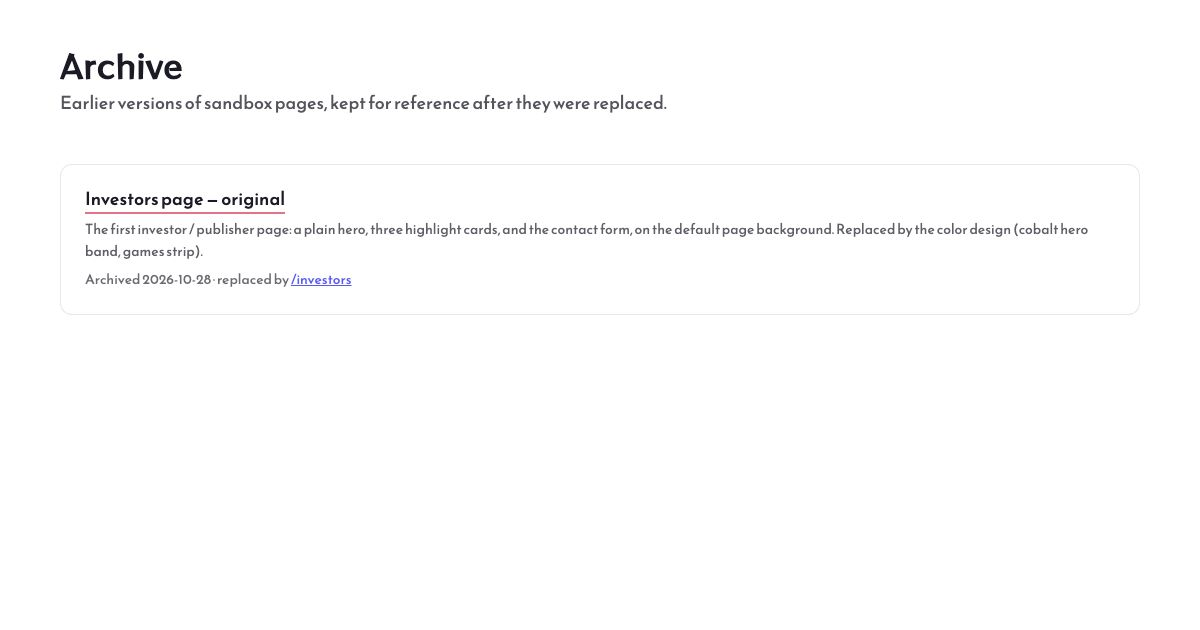
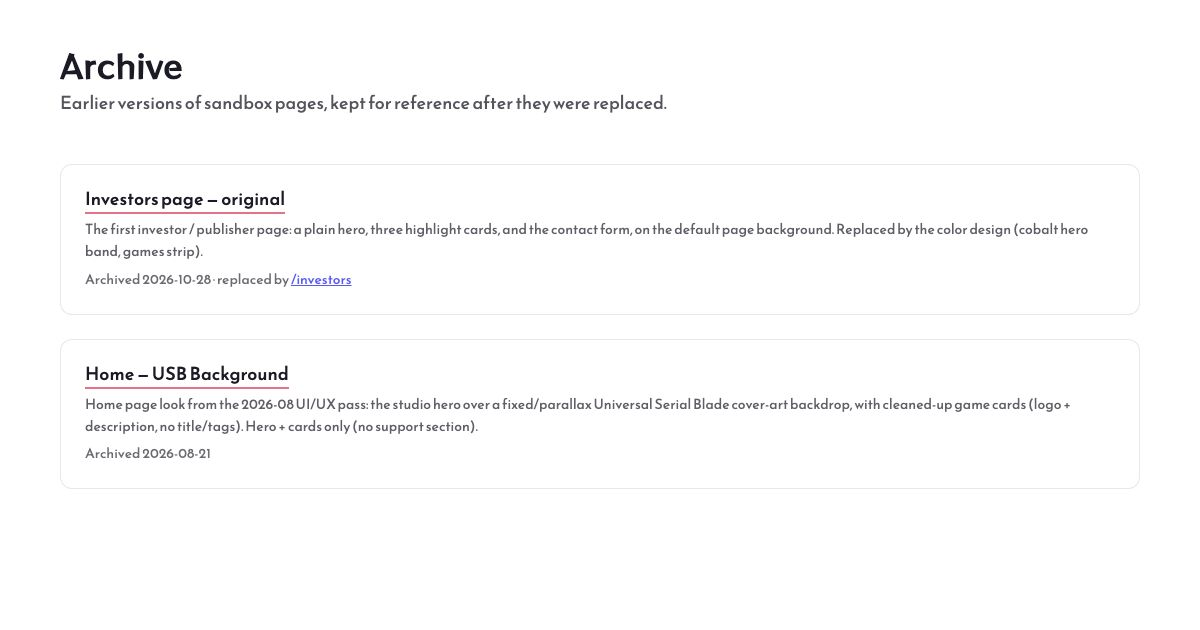
archive: move Home — USB Background to /archive/home-usb-background
It was already an archived snapshot listed under Pages; it now lives in
the archive with the notice bar. The old /home-usb-background address
redirects to the new one.

Changed region(s): [[0.0617, 0.573, 0.8942, 0.7238]]

diff --git a/src/pages/ArchiveHomeUsbBackgroundPage.jsx b/src/pages/ArchiveHomeUsbBackgroundPage.jsx
@@ -1,8 +1,10 @@
 import { asset } from '../utils/asset'
+import ArchiveNotice from '../components/ArchiveNotice'
+import { archived } from '../data/archive'
 import '../styles/home-usb-background.css'
 
 /**
- * Home — USB Background (archived snapshot).
+ * Home — USB Background (archived snapshot, /archive/home-usb-background).
  *
  * Frozen copy of the home-page look from the 2026-08 UI/UX pass: the studio
  * hero over a fixed/parallax Universal Serial Blade cover-art backdrop, plus
@@ -16,6 +18,8 @@ import '../styles/home-usb-background.css'
  * card-logo deltas live in ../styles/home-usb-background.css. Cards are static
  * previews — the "Learn More" pill doesn't navigate (no game routes here).
  */
+
+const ENTRY = archived.find((entry) => entry.path === '/archive/home-usb-background')
 
 const SCRIM = 'rgba(255, 255, 255, 0.62)'
 const BACKGROUND = '/assets/img/universal-serial-blade-outside-city-concept.jpg'
@@ -50,55 +54,58 @@ const games = [
   },
 ]
 
-export default function HomeUsbBackgroundPage() {
+export default function ArchiveHomeUsbBackgroundPage() {
   const backgroundImage = `linear-gradient(${SCRIM}, ${SCRIM}), url('${asset(BACKGROUND)}')`
 
   return (
-    <section className="home-main has-fixed-bg" style={{ backgroundImage }}>
+    <>
+      <ArchiveNotice entry={ENTRY} />
+      <section className="home-main has-fixed-bg" style={{ backgroundImage }}>
 
-      <section className="home-hero-intro">
-        <div className="hero-logo-wrapper">
-          <img src={asset('/assets/img/anime-type.png')} loading="lazy" alt="Kato.8 Studios logo" className="hero-logo-image" />
-        </div>
-        <div className="hero-tagline-wrapper">
-          <p className="hero-intro-paragraph">{TAGLINE}</p>
-        </div>
-      </section>
+        <section className="home-hero-intro">
+          <div className="hero-logo-wrapper">
+            <img src={asset('/assets/img/anime-type.png')} loading="lazy" alt="Kato.8 Studios logo" className="hero-logo-image" />
+          </div>
+          <div className="hero-tagline-wrapper">
+            <p className="hero-intro-paragraph">{TAGLINE}</p>
+          </div>
+        </section>
 
-      <section className="games-cards-wrapper">
-        <section className="games-list-section">
-          <div className="games-card-list-wrapper w-dyn-list">
-            <div role="list" className="games-card-list w-dyn-items w-row">
-              {games.map((game) => (
-                <div
-                  key={game.slug}
-                  style={{ backgroundColor: game.bgColor, backgroundImage: `url('${asset(game.bgImage)}')` }}
-                  role="listitem"
-                  className="game-card w-dyn-item w-col w-col-4"
-                >
-                  <div className="game-card-overlay">
-                    <div className="game-card-content">
-                      {game.cardLogo && (
-                        <div className="game-card-logo-block">
-                          <img src={asset(game.cardLogo.src)} loading="lazy" alt={game.cardLogo.alt} className="game-card-logo" />
+        <section className="games-cards-wrapper">
+          <section className="games-list-section">
+            <div className="games-card-list-wrapper w-dyn-list">
+              <div role="list" className="games-card-list w-dyn-items w-row">
+                {games.map((game) => (
+                  <div
+                    key={game.slug}
+                    style={{ backgroundColor: game.bgColor, backgroundImage: `url('${asset(game.bgImage)}')` }}
+                    role="listitem"
+                    className="game-card w-dyn-item w-col w-col-4"
+                  >
+                    <div className="game-card-overlay">
+                      <div className="game-card-content">
+                        {game.cardLogo && (
+                          <div className="game-card-logo-block">
+                            <img src={asset(game.cardLogo.src)} loading="lazy" alt={game.cardLogo.alt} className="game-card-logo" />
+                          </div>
+                        )}
+                        <div className="game-card-description">
+                          <p>{game.tagline}</p>
                         </div>
-                      )}
-                      <div className="game-card-description">
-                        <p>{game.tagline}</p>
-                      </div>
-                      <div className="game-card-cta-link w-inline-block" aria-hidden="true">
-                        <div className="game-card-cta-pill">
-                          <div className="game-card-cta-label">Learn More</div>
+                        <div className="game-card-cta-link w-inline-block" aria-hidden="true">
+                          <div className="game-card-cta-pill">
+                            <div className="game-card-cta-label">Learn More</div>
+                          </div>
                         </div>
                       </div>
                     </div>
                   </div>
-                </div>
-              ))}
+                ))}
+              </div>
             </div>
-          </div>
+          </section>
         </section>
       </section>
-    </section>
+    </>
   )
 }

diff --git a/src/App.jsx b/src/App.jsx
@@ -1,4 +1,4 @@
-import { Routes, Route, useLocation } from 'react-router-dom'
+import { Routes, Route, Navigate, useLocation } from 'react-router-dom'
 // Sandbox nav is a vendored copy of the main-site Nav with an added
 // "Investors" tab (not yet upstream — PROCESS.md §1b). Swap back to the
 // imported `kato8studios-site/src/components/Nav` when the tab graduates.
@@ -23,12 +23,12 @@ import StudioBiosPage from './pages/StudioBiosPage'
 import StudioBiosFramesPage from './pages/StudioBiosFramesPage'
 import ArchivePage from './pages/ArchivePage'
 import ArchiveInvestorsV1Page from './pages/ArchiveInvestorsV1Page'
+import ArchiveHomeUsbBackgroundPage from './pages/ArchiveHomeUsbBackgroundPage'
 import PreviewPage from './previews/PreviewPage'
 // Pages scaffolded from the dev admin panel (scripts/dev-admin) auto-insert
 // their `import` line directly below the next marker. Keep the marker line
 // intact and on its own — the panel splices new imports right after it.
 // ADMIN:PAGE-IMPORTS
-import HomeUsbBackgroundPage from './pages/HomeUsbBackgroundPage'
 
 export default function App() {
   const location = useLocation()
@@ -65,8 +65,10 @@ export default function App() {
       <Route path="/studio-bios-frames" element={<StudioBiosFramesPage />} />
       <Route path="/archive" element={<ArchivePage />} />
       <Route path="/archive/investors-v1" element={<ArchiveInvestorsV1Page />} />
+      <Route path="/archive/home-usb-background" element={<ArchiveHomeUsbBackgroundPage />} />
+      {/* Old address from before the archive existed. */}
+      <Route path="/home-usb-background" element={<Navigate to="/archive/home-usb-background" replace />} />
       {/* ADMIN:PAGE-ROUTES — admin-scaffolded page routes insert below this line */}
-      <Route path="/home-usb-background" element={<HomeUsbBackgroundPage />} />
       <Route path="/components" element={<PreviewPage />} />
       <Route path="/components/:name" element={<PreviewPage />} />
     </Routes>

diff --git a/src/data/og-images.js b/src/data/og-images.js
@@ -4,6 +4,7 @@
 export const ogImages = {
   "/": "/assets/og/home.jpg",
   "/archive": "/assets/og/archive.jpg",
+  "/archive/home-usb-background": "/assets/og/archive--home-usb-background.jpg",
   "/archive/investors-v1": "/assets/og/archive--investors-v1.jpg",
   "/components": "/assets/og/components.jpg",
   "/components/bio-cards": "/assets/og/components--bio-cards.jpg",
@@ -35,7 +36,6 @@ export const ogImages = {
   "/crowdfunding-games/game-six": "/assets/og/crowdfunding-games--game-six.jpg",
   "/crowdfunding-games/hollowbrook-apothecary": "/assets/og/crowdfunding-games--hollowbrook-apothecary.jpg",
   "/crowdfunding-games/hotdog-hustler": "/assets/og/crowdfunding-games--hotdog-hustler.jpg",
-  "/home-usb-background": "/assets/og/home-usb-background.jpg",
   "/investors": "/assets/og/investors.jpg",
   "/kickstarter-button-v2": "/assets/og/kickstarter-button-v2.jpg",
   "/kickstarter-buttons": "/assets/og/kickstarter-buttons.jpg",

diff --git a/src/data/homeSections.js b/src/data/homeSections.js
@@ -40,12 +40,6 @@ export const pages = [
     source: 'src/pages/CrowdfundingGamesPage.jsx',
     description: 'Full-page preview of the crowdfunding games landing plus its six per-game detail pages (main-section layout, placeholder content). Live on staging; previewed here for review.',
   },
-  {
-    path: '/home-usb-background',
-    title: 'Home — USB Background',
-    source: 'src/pages/HomeUsbBackgroundPage.jsx',
-    description: 'Archived snapshot of the home page with the fixed/parallax USB cover-art background and cleaned-up game cards (logo + description, no title/tags), from the 2026-08 UI/UX pass. Hero + cards only (no support section).',
-  },
 ]
 
 export const experiments = [

diff --git a/src/data/archive.js b/src/data/archive.js
@@ -19,4 +19,12 @@ export const archived = [
     description:
       'The first investor / publisher page: a plain hero, three highlight cards, and the contact form, on the default page background. Replaced by the color design (cobalt hero band, games strip).',
   },
+  {
+    path: '/archive/home-usb-background',
+    title: 'Home — USB Background',
+    archived: '2026-08-21',
+    replacedBy: null,
+    description:
+      'Home page look from the 2026-08 UI/UX pass: the studio hero over a fixed/parallax Universal Serial Blade cover-art backdrop, with cleaned-up game cards (logo + description, no title/tags). Hero + cards only (no support section).',
+  },
 ]

diff --git a/src/data/seo-config.js b/src/data/seo-config.js
@@ -145,7 +145,7 @@ export const staticRoutes = {
     ogDescription:
       'The Kato.8 team on the studio’s own trading-card frames — Studio, USB, Last Light, and BBCU. Click a card to flip it.',
   },
-  '/home-usb-background': {
+  '/archive/home-usb-background': {
     title: 'Home — USB Background | Kato.8 Sandbox',
     description:
       'Archived home-page look: hero over a fixed USB cover-art parallax backdrop with cleaned-up game cards.',
